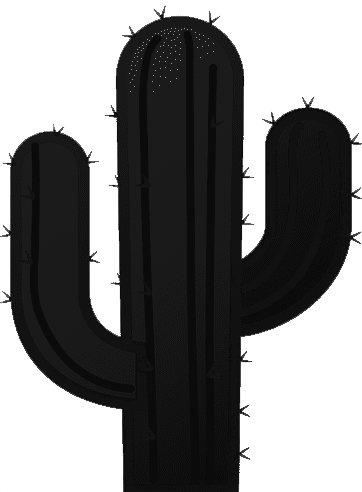
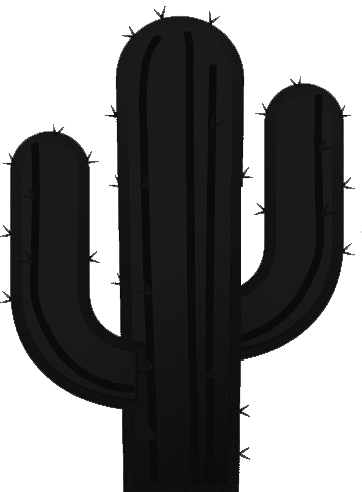
update obstaculos

Changed region(s): [[0.6685, 0.1524, 1.0, 0.5488], [0.6381, 0.5488, 0.942, 0.7622], [0.6685, 0.4878, 0.7293, 0.5793]]

diff --git a/src/main/Obstaculo.java b/src/main/Obstaculo.java
@@ -10,21 +10,26 @@ public class Obstaculo {
 	
 	private int x, y;
 	private int ancho, alto;
-	private Image imagen;
-	private boolean xRandom;
+	private Image imagen, imagen2;
+	private int tipo;
 	
 	public Obstaculo(int x, int y, int ancho, int alto) {
 		this.x = x;
 		this.y = y;
 		this.ancho = ancho;
 		this.alto = alto;
-		this.xRandom = false;
+		this.tipo = 1;
 		this.imagen = new ImageIcon("data/obstaculo.png").getImage();
+		this.imagen2 = new ImageIcon("data/obstaculo2.png").getImage();
 	}
 	
 	public void dibujar(Graphics g) {
 		g.setColor(Color.RED);
-		g.drawImage(getImagen(), x, y, ancho, alto, null);	
+		if(tipo == 1) {
+			g.drawImage(imagen, x, y, ancho, alto, null);
+		} else {
+			g.drawImage(imagen2, x, y, ancho, alto, null);
+		}
 	}
 	
 	public void mover() {
@@ -32,7 +37,7 @@ public class Obstaculo {
 		if(x + ancho > 0) {
 			x -= Juego.velocidadCam;
 		} else {
-			if(xRandom && random == 0) {
+			if(tipo != 1 && random == 0) {
 				x += Juego.ANCHO + 200;
 			} else {
 				x += Juego.ANCHO;
@@ -55,13 +60,9 @@ public class Obstaculo {
 	public int getAlto() {
 		return alto;
 	}
-
-	public Image getImagen() {
-		return imagen;
-	}
 	
-	public void setXRandom(boolean xRandom) {
-		this.xRandom = xRandom;
+	public void setTipo(int tipo) {
+		this.tipo = tipo;
 	}
 	
 }

diff --git a/src/main/Juego.java b/src/main/Juego.java
@@ -75,7 +75,7 @@ public class Juego extends JPanel {
 		msjReiniciar = new ImageIcon("data/icono de reiniciar.png").getImage();
 		cartel = new ImageIcon("data/cartel de game over.png").getImage();
 		mapa = new Mapa(0, 0, ANCHO, ALTO);
-		dino = new Dino(ANCHO - 1180, ALTO - 200, ANCHO - 1180, ALTO - 500);
+		dino = new Dino(ANCHO - 1180, ALTO - 200, 100, 100);
 	}
 
 	public void actualizar() {

diff --git a/src/main/Mapa.java b/src/main/Mapa.java
@@ -45,7 +45,7 @@ public class Mapa {
 		obstaculos = new ArrayList<>();
 		Obstaculo o1 = new Obstaculo(ancho, alto - 200, ancho - 1220, alto - 500);
 		Obstaculo o2 = new Obstaculo(ancho + 100, alto - 150, ancho - 1250, alto - 550);
-		o2.setXRandom(true);
+		o2.setTipo(2);
 		obstaculos.add(o1);
 		obstaculos.add(o2);
 	}
